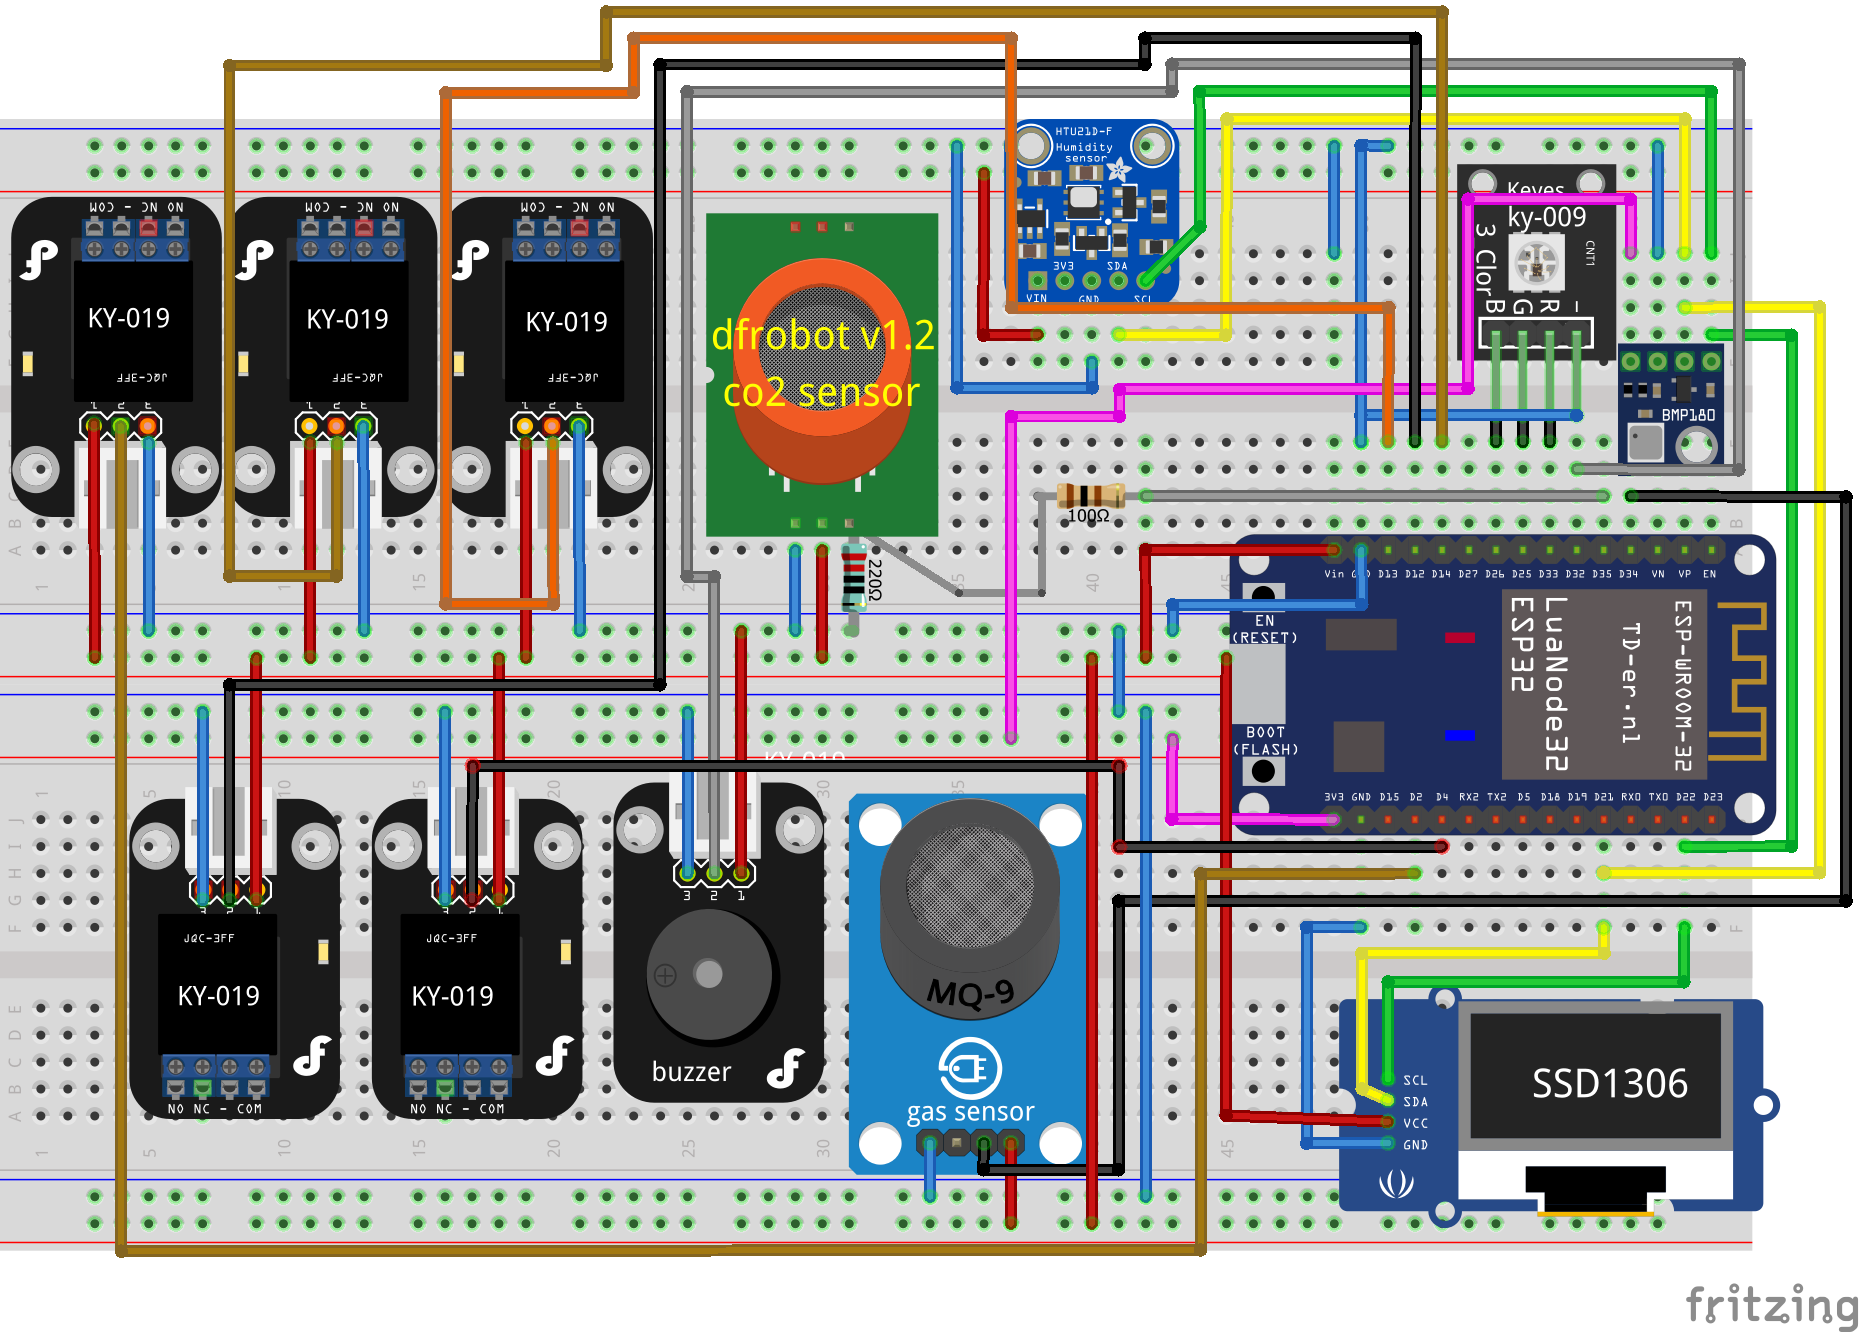
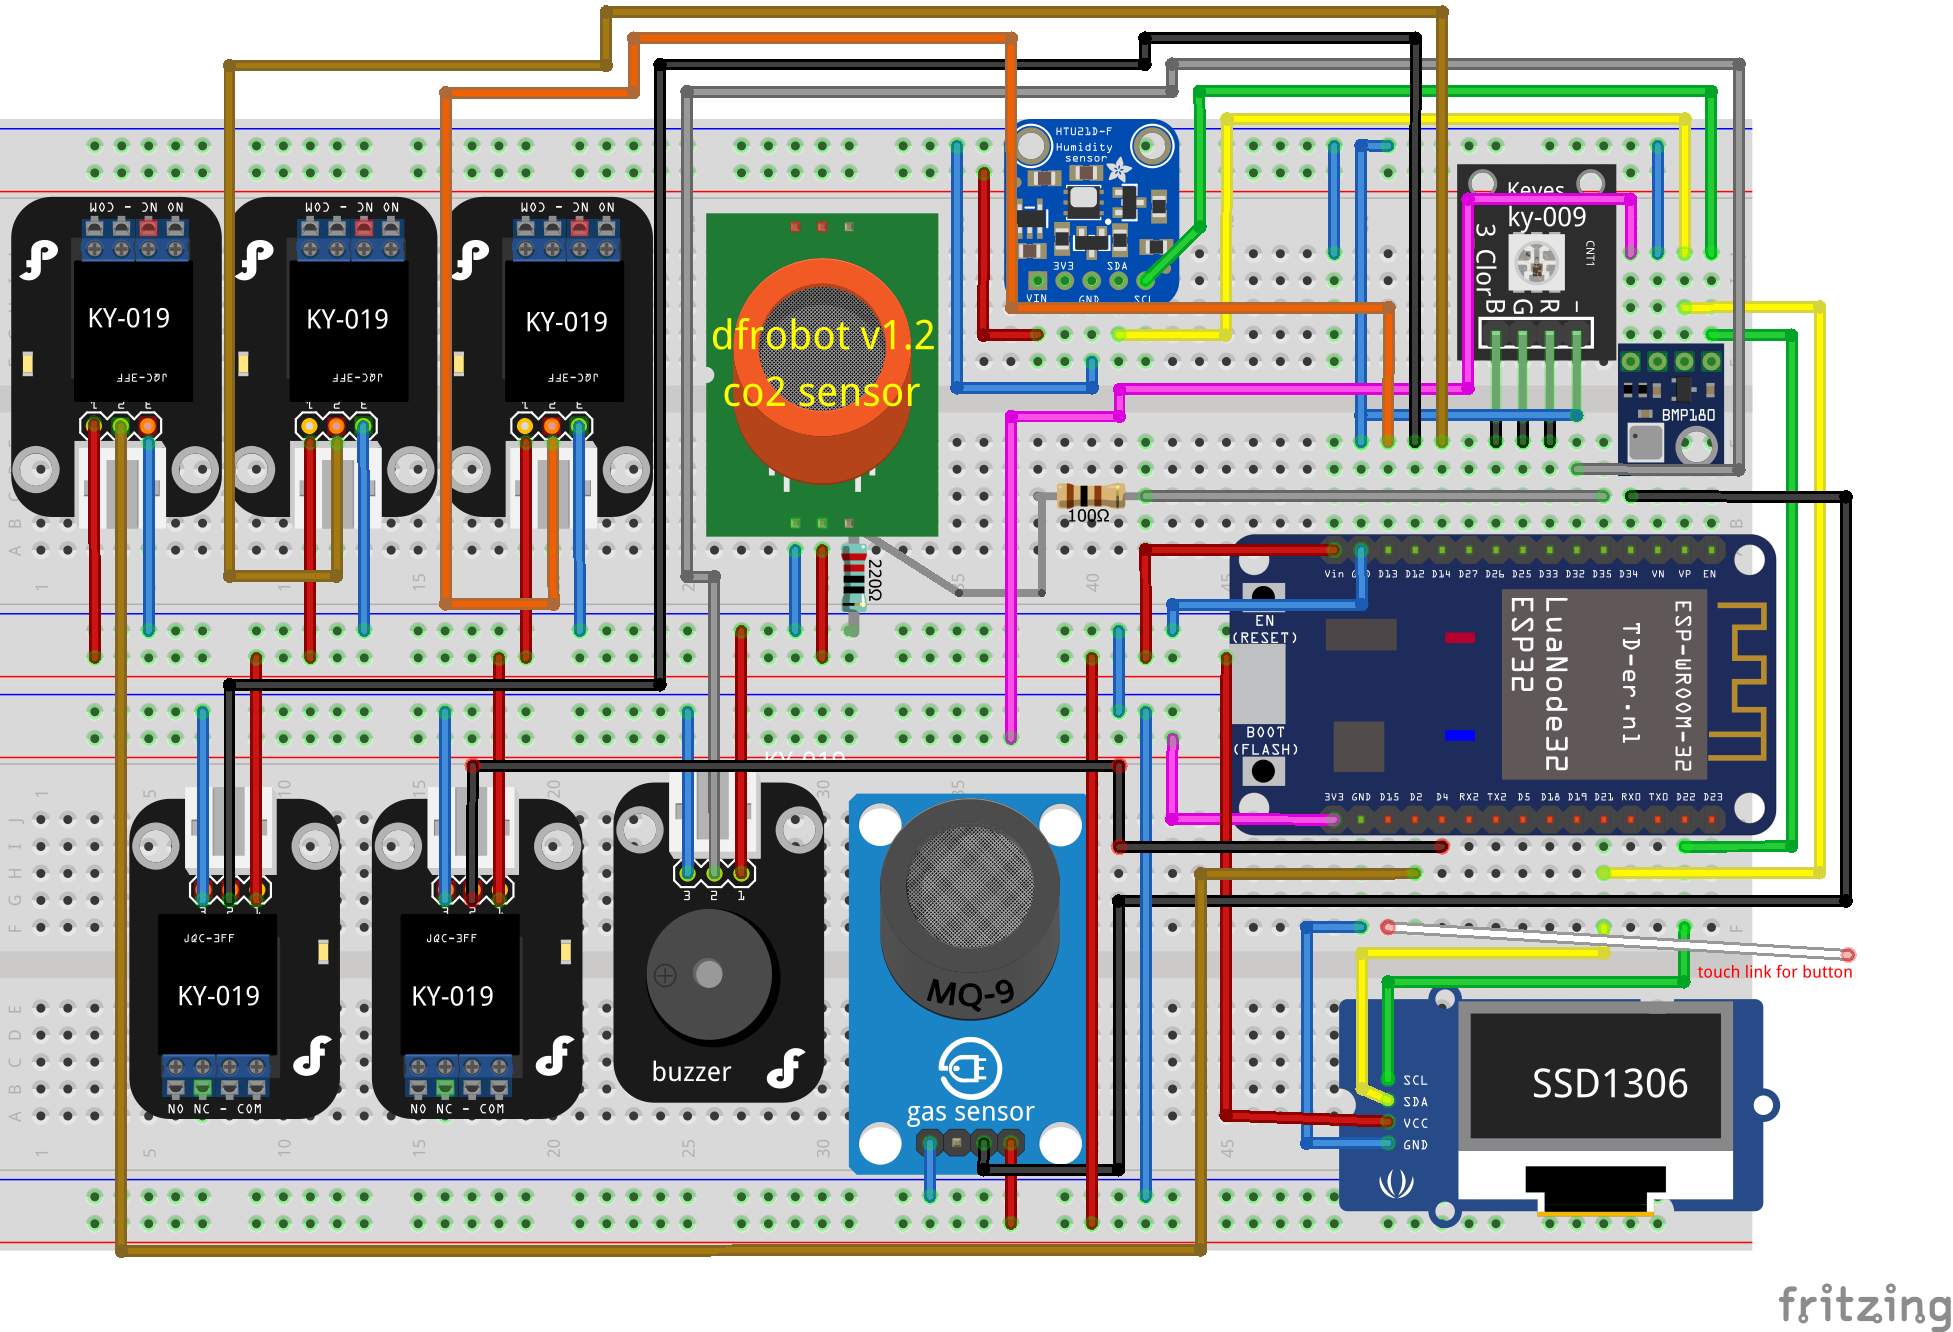
added touch button

diff --git a/firmware.js b/firmware.js
@@ -4,7 +4,8 @@ var pins = {
   co2: 35,
   gas: 34,
   relays: [4, 12, 13, 14, 2],
-  i2c: {scl: 22, sda: 21}
+  i2c: {scl: 22, sda: 21},
+  button: 15
 };
 
 var values = [
@@ -120,7 +121,8 @@ function onInit() {
      digitalWrite(pins.relays[i], 0);
   }
   wifiConnect(E.toString(memory.read(0)), E.toString(memory.read(1)));
-  setInterval(setDisplayView, Number(E.toString(memory.read(4))));
+  pinMode(pins.button, 'analog');
+  setWatch(setDisplayView, pins.button, {repeat: true, edge: 'rising', debounce: 60});
   getValues();
   serverInit();
 }
